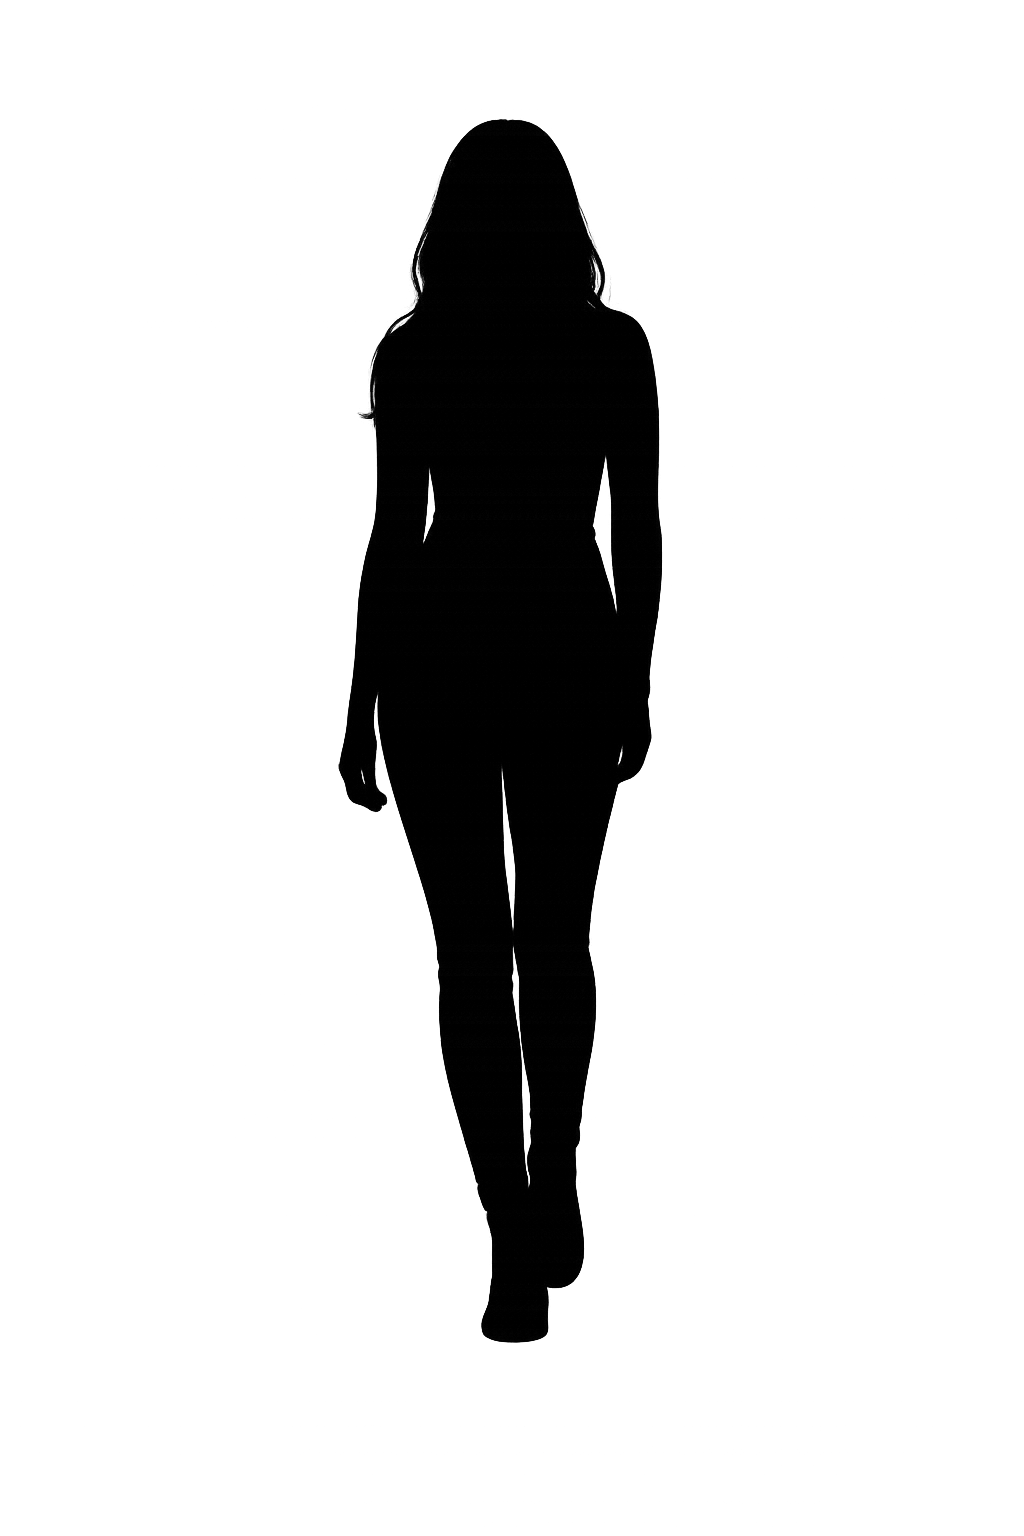
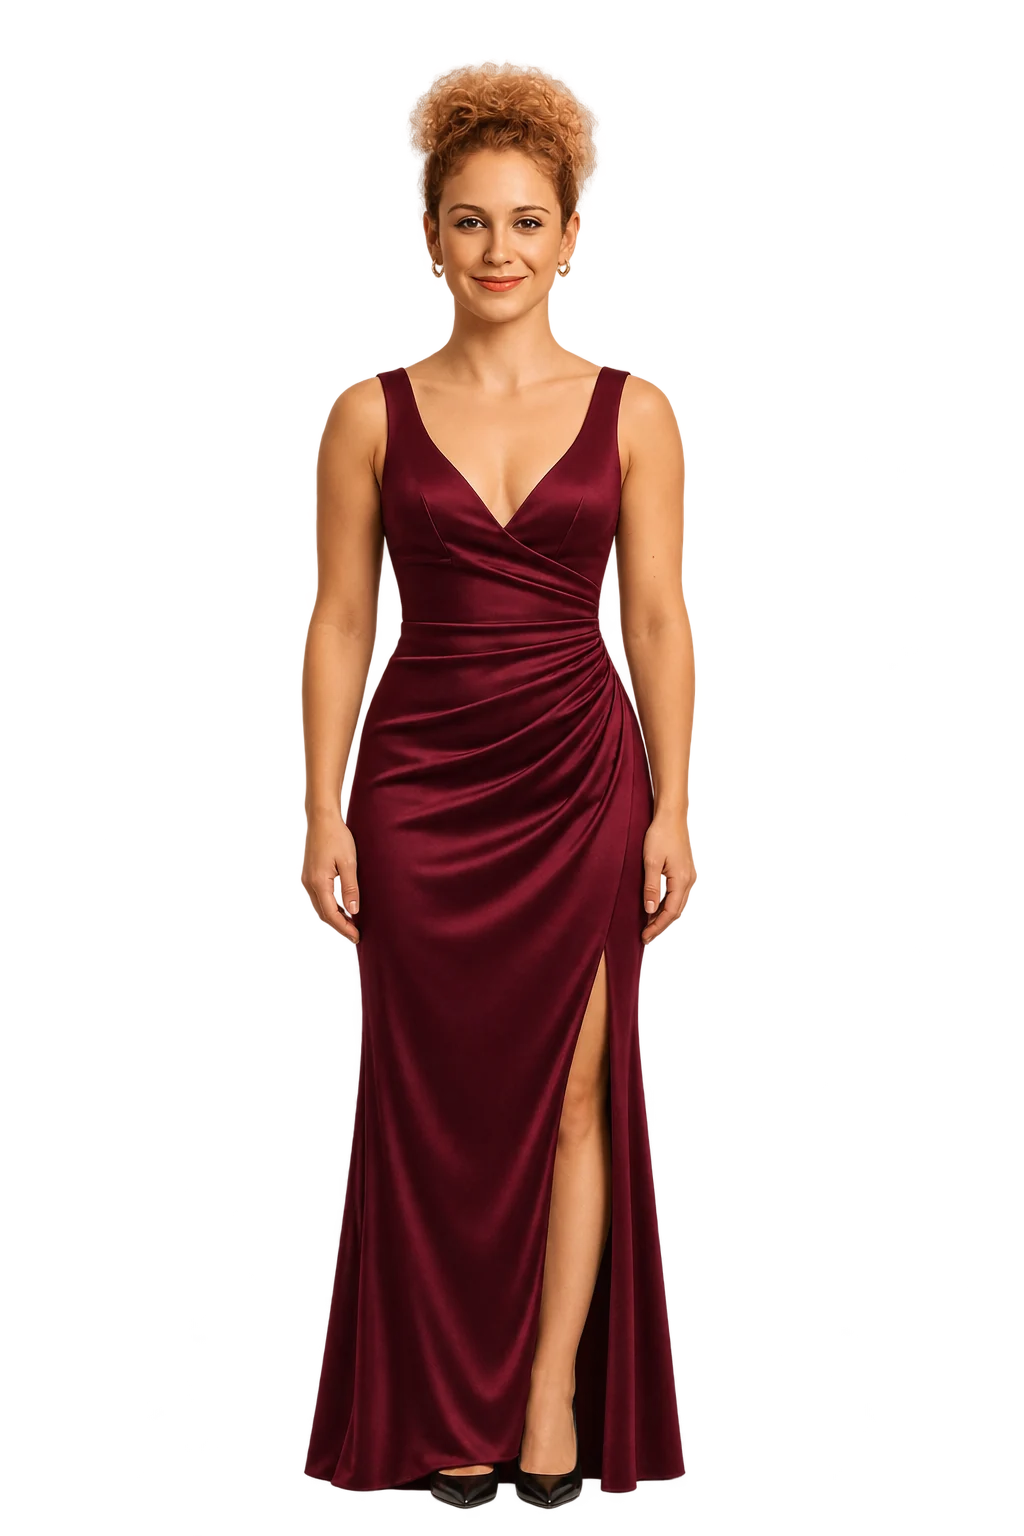
Add formal attire for Bea and a corner coronation button

Changed region(s): [[0.2812, 0.0312, 0.6875, 1.0]]

diff --git a/src/components/SeasonFinale/ChampionFinaleStage.tsx b/src/components/SeasonFinale/ChampionFinaleStage.tsx
@@ -1,7 +1,7 @@
 import type { Player } from '../../types'
 import { joinPublicAssetPath } from '../../utils/avatar'
 import FullSizeCutoutImage from '../FullSizeCutoutImage/FullSizeCutoutImage'
-import FinaleContinueButton from '../FinalThreeStage/FinaleContinueButton'
+import CinematicSkipButton from '../CinematicSkipButton/CinematicSkipButton'
 import { FINAL_THREE_SET_ASSETS } from '../FinalThreeStage/finalThreeSetAssets'
 import ChampionFireworks from './ChampionFireworks'
 import './ChampionFinaleStage.css'
@@ -67,10 +67,15 @@ export default function ChampionFinaleStage({
           />
         </div>
         {revealed && animate && <ChampionFireworks />}
-        {revealed && (
-          <FinaleContinueButton ariaLabel="Continue to winner interview" onContinue={onContinue} />
-        )}
       </div>
+      {revealed && (
+        <CinematicSkipButton
+          label="Continue"
+          indicator="forward"
+          ariaLabel="Continue to winner interview"
+          onClick={onContinue}
+        />
+      )}
     </section>
   )
 }

diff --git a/src/components/CinematicSkipButton/CinematicSkipButton.tsx b/src/components/CinematicSkipButton/CinematicSkipButton.tsx
@@ -5,10 +5,11 @@ interface CinematicSkipButtonProps {
   ariaLabel: string
   onClick: () => void
   label?: string
+  indicator?: 'close' | 'forward'
 }
 
 const CinematicSkipButton = forwardRef<HTMLButtonElement, CinematicSkipButtonProps>(
-  function CinematicSkipButton({ ariaLabel, onClick, label = 'Skip' }, ref) {
+  function CinematicSkipButton({ ariaLabel, onClick, label = 'Skip', indicator = 'close' }, ref) {
     return (
       <button
         ref={ref}
@@ -17,7 +18,7 @@ const CinematicSkipButton = forwardRef<HTMLButtonElement, CinematicSkipButtonPro
         onClick={onClick}
         aria-label={ariaLabel}
       >
-        {label} <span aria-hidden="true">×</span>
+        {label} <span aria-hidden="true">{indicator === 'forward' ? '→' : '×'}</span>
       </button>
     )
   }

diff --git a/src/components/SeasonFinale/ChampionFinaleStage.css b/src/components/SeasonFinale/ChampionFinaleStage.css
@@ -188,9 +188,6 @@
     left: 55%;
     width: 35%;
   }
-  .season-finale__champion-frame .finale-continue {
-    right: 50%;
-  }
 }
 @media (prefers-reduced-motion: reduce) {
   .season-finale--champion *,
